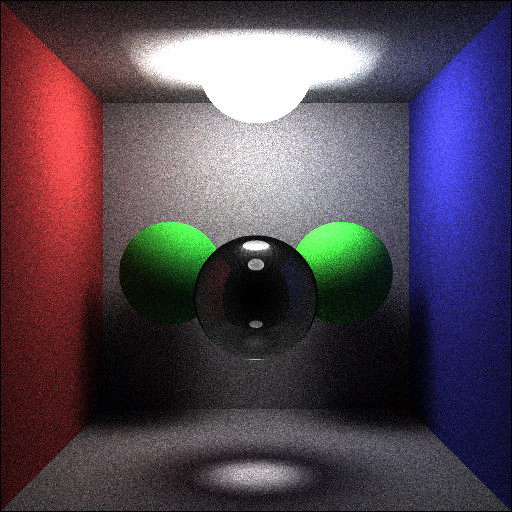
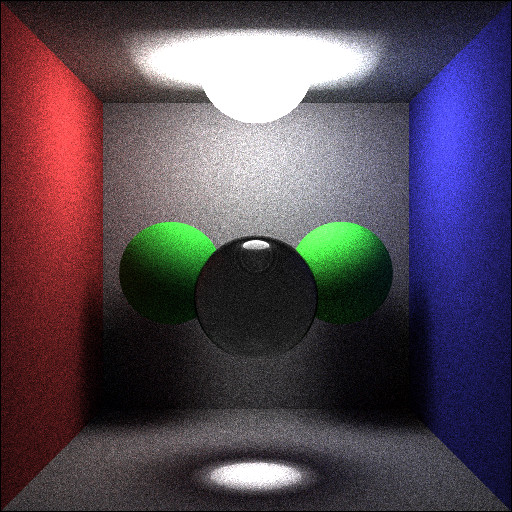
correct schlick

Changed region(s): [[0.0, 0.0, 1.0, 1.0]]

diff --git a/src/Algorithms.cpp b/src/Algorithms.cpp
@@ -212,8 +212,8 @@ glm::vec3 Algorithms::RefractedIllumination(Intersection &intersection, Scene *s
 		float R0 = (n1 - n2)/(n1 + n2);
 		R0 = R0*R0;
 		float ncos = 1.0f - cosI;
-		float cosI2 = cosI*cosI;
-		R = R0 + (1.0f - R0)*cosI2*cosI2*cosI;
+		float ncos2 = ncos*ncos;
+		R = R0 + (1.0f - R0)*ncos2*ncos2*ncos;
 	}
 
 
